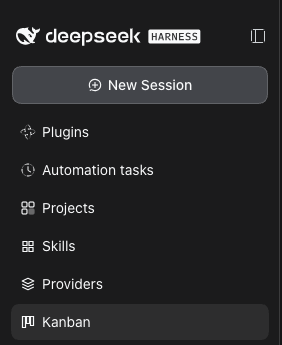
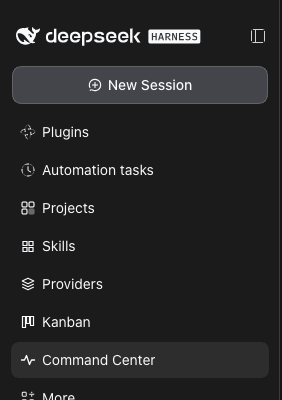
Command Center dashboard; keep sessions, providers, skills, kanban as separate panels

diff --git a/packages/toolbox/client.js b/packages/toolbox/client.js
@@ -41,6 +41,8 @@ window.__ModuleLoader__.load({
 .tbx-row:hover{background:var(--dsw-alias-interactive-bg-hover)}
 .tbx-rowOff{opacity:.55}
 .tbx-name{font-size:12px;white-space:nowrap;overflow:hidden;text-overflow:ellipsis;flex:0 0 200px}
+.tbx-copy{display:flex;flex-direction:column;min-width:0;flex:1;gap:1px}
+.tbx-copy .tbx-name{flex:0 0 auto;max-width:100%}
 .tbx-desc{flex:1;min-width:0;white-space:nowrap;overflow:hidden;text-overflow:ellipsis;color:var(--dsw-alias-label-tertiary);font-size:11px}
 .tbx-load{flex:none;font-variant-numeric:tabular-nums;color:var(--dsw-alias-label-tertiary);font-size:11px;min-width:44px;text-align:right}
 .tbx-switch{flex:none;width:30px;height:18px;border-radius:999px;border:1px solid var(--dsw-alias-border-l2);background:var(--dsw-alias-bg-layer-3);cursor:pointer;padding:0;position:relative}
@@ -67,6 +69,8 @@ window.__ModuleLoader__.load({
 .tbx-empty{padding:14px;color:var(--dsw-alias-label-tertiary);font-size:12px}
 .tbx-note{color:var(--dsw-alias-label-tertiary);font-size:11px;margin:4px 0 8px}
 .tbx-error{color:var(--dsw-alias-state-error-primary);font-size:12px;padding:6px 0}
+.tbx-dot{display:inline-block;width:7px;height:7px;border-radius:50%;background:var(--dsw-alias-label-caption);margin-right:6px;vertical-align:middle}
+.tbx-dotOn{background:var(--dsw-alias-state-success-primary,var(--dsw-alias-state-business-primary))}
 .tbx-badge{display:inline-block;border:1px solid var(--dsw-alias-border-l1);border-radius:999px;padding:0 6px;font-size:10px;color:var(--dsw-alias-label-tertiary);line-height:16px}
 `
     if (typeof document !== 'undefined' && document.querySelector('style[data-plugin-css=' + JSON.stringify(CSS_TAG) + ']') === null) {
@@ -328,6 +332,50 @@ window.__ModuleLoader__.load({
       )
     }
 
+    function CommandTab({ t }) {
+      const [data, setData] = useState(null)
+      const [error, setError] = useState(null)
+      useEffect(() => {
+        fetchJson('/api/toolbox/sessions').then(setData).catch((e) => setError(e.message))
+      }, [])
+      if (error) return h('div', { className: 'tbx-error' }, error)
+      if (data === null) return h('div', { className: 'tbx-empty' }, t('loading'))
+      if (data.rows.length === 0) return h('div', { className: 'tbx-empty' }, t('command.empty'))
+      const workspace = (cwd) => (cwd || '').split('/').filter(Boolean).pop() || '—'
+      return h(
+        'div',
+        { className: 'tbx-list' },
+        data.rows.map((row) => h(
+          'div',
+          { className: 'tbx-row', key: row.id },
+          h('span', { className: 'tbx-dot' + (row.active ? ' tbx-dotOn' : ''), title: row.active ? t('sessions.active') : t('sessions.idle') }),
+          h(
+            'span',
+            { className: 'tbx-copy' },
+            h('span', { className: 'tbx-name', title: row.id }, row.title),
+            h(
+              'span',
+              { className: 'tbx-desc' },
+              `${workspace(row.cwd)} · ${row.model || '—'} · ${row.messages} ${t('sessions.messagesShort')} · ${n(row.tokens)} ${t('sessions.tokensShort')}`,
+            ),
+          ),
+          h('span', { className: 'tbx-muted' }, ago(row.updatedAt)),
+        )),
+      )
+    }
+
+    function CommandPage({ t }) {
+      return h(
+        'div',
+        { className: 'tbx-page' },
+        h('div', { className: 'tbx-head' }, h('span', { className: 'tbx-title' }, t('command.title'))),
+        h('div', { className: 'tbx-body' },
+          h('div', { className: 'tbx-note' }, t('command.note')),
+          h(CommandTab, { t }),
+        ),
+      )
+    }
+
     function KanbanPage({ t }) {
       return h(
         'div',
@@ -399,6 +447,19 @@ window.__ModuleLoader__.load({
       }),
     )
 
+    const CommandIcon = () => h(
+      'svg',
+      { width: 16, height: 16, viewBox: '0 0 16 16', 'aria-hidden': 'true' },
+      h('path', {
+        d: 'M1.5 8h3l2-4.5 3 9 2-4.5h3',
+        fill: 'none',
+        stroke: 'currentColor',
+        strokeWidth: 1.3,
+        strokeLinecap: 'round',
+        strokeLinejoin: 'round',
+      }),
+    )
+
     const ProvidersIcon = () => h(
       'svg',
       { width: 16, height: 16, viewBox: '0 0 16 16', 'aria-hidden': 'true' },
@@ -419,6 +480,20 @@ window.__ModuleLoader__.load({
       'tab.skills': 'Skills',
       'tab.providers': 'Providers',
       'kanban.title': 'Kanban',
+      'command.title': 'Command Center',
+      'command.note': 'Every durable session with its model, message count, token total and last write. Read-only: open a session from the sidebar; live in-flight state stays there.',
+      'command.empty': 'No sessions found.',
+      'sessions.status': 'Status',
+      'sessions.title': 'Session',
+      'sessions.workspace': 'Workspace',
+      'sessions.model': 'Model',
+      'sessions.messages': 'Messages',
+      'sessions.tokens': 'Tokens',
+      'sessions.last': 'Last write',
+      'sessions.messagesShort': 'messages',
+      'sessions.tokensShort': 'tokens',
+      'sessions.active': 'active',
+      'sessions.idle': 'idle',
       'skills.search': 'Filter skills',
       'skills.totals': '{enabled} enabled · {all} total · {retired} retired',
       'skills.note': 'Loads come from the curator. Disabling moves a skill to ~/.dsh/skills-retired.',
@@ -448,6 +523,20 @@ window.__ModuleLoader__.load({
       'tab.skills': '技能',
       'tab.providers': '提供商',
       'kanban.title': '看板',
+      'command.title': '指挥中心',
+      'command.note': '每个持久会话的模型、消息数、token 总量与最近写入。只读：从左侧边栏打开会话。',
+      'command.empty': '没有会话。',
+      'sessions.status': '状态',
+      'sessions.title': '会话',
+      'sessions.workspace': '工作区',
+      'sessions.model': '模型',
+      'sessions.messages': '消息',
+      'sessions.tokens': 'Token',
+      'sessions.last': '最近写入',
+      'sessions.messagesShort': '条消息',
+      'sessions.tokensShort': 'token',
+      'sessions.active': '活跃',
+      'sessions.idle': '空闲',
       'skills.search': '筛选技能',
       'skills.totals': '{enabled} 启用 · {all} 总数 · {retired} 已停用',
       'skills.note': '加载次数来自 curator。停用会把技能移动到 ~/.dsh/skills-retired。',
@@ -476,6 +565,7 @@ window.__ModuleLoader__.load({
         { key: 'skills', order: 23, label: 'skills.title', icon: SkillsIcon },
         { key: 'providers', order: 24, label: 'providers.title', icon: ProvidersIcon },
         { key: 'kanban', order: 25, label: 'kanban.title', icon: KanbanIcon },
+        { key: 'command', order: 26, label: 'command.title', icon: CommandIcon },
       ]
       for (const row of rows) {
         ctx.slots.inject('sidebar.panellist', () =>
@@ -485,7 +575,7 @@ window.__ModuleLoader__.load({
           ),
         )
       }
-      const pages = { skills: SkillsPage, providers: ProvidersPage, kanban: KanbanPage }
+      const pages = { skills: SkillsPage, providers: ProvidersPage, kanban: KanbanPage, command: CommandPage }
       for (const key of Object.keys(pages)) {
         ctx.slots.inject('main', () =>
           ctx.slots.register({ name: 'main', key, locale: NS }, pages[key]),

diff --git a/packages/toolbox/index.js b/packages/toolbox/index.js
@@ -210,6 +210,76 @@ async function providersPayload() {
   return value
 }
 
+/** @type {null | { at: number, value: unknown }} */
+let sessionCache = null
+
+/**
+ * One row per durable session, read from its log: title, workspace, model,
+ * message and token totals, and the file's last write. A session is reported
+ * "active" when its log was written within the last two minutes — the files
+ * carry no liveness flag, and a page cannot ask the Host for another tab's
+ * in-flight state.
+ */
+async function sessionsPayload() {
+  if (sessionCache !== null && Date.now() - sessionCache.at < 30_000) return sessionCache.value
+  const rows = []
+  const roots = await fs.readdir(SESSIONS, { withFileTypes: true }).catch(() => [])
+  for (const root of roots) {
+    if (!root.isDirectory()) continue
+    const dirs = await fs.readdir(path.join(SESSIONS, root.name), { withFileTypes: true }).catch(() => [])
+    for (const dir of dirs) {
+      if (!dir.isDirectory()) continue
+      const file = path.join(SESSIONS, root.name, dir.name, 'session.v4.jsonl.zstd')
+      let stat
+      try {
+        stat = await fs.stat(file)
+      } catch {
+        continue
+      }
+      const text = await readSession(file)
+      if (text === null) continue
+      let cwd = ''
+      let title = null
+      let model = ''
+      let messages = 0
+      let tokens = 0
+      for (const line of text.split('\n')) {
+        if (line === '') continue
+        let event
+        try {
+          event = JSON.parse(line)
+        } catch {
+          continue
+        }
+        if (event.type === 'session') {
+          cwd = event.cwd || cwd
+        } else if (event.type === 'session/title') {
+          title = event.data?.title || title
+        } else if (event.type === 'assistant/message') {
+          messages += 1
+          const source = event.data?.message?.source
+          if (source?.provider) model = `${source.provider} / ${source.model}`
+          tokens += event.data?.usage?.totalTokens || 0
+        }
+      }
+      rows.push({
+        id: dir.name,
+        cwd,
+        title: title || path.basename(cwd) || dir.name,
+        model,
+        messages,
+        tokens,
+        updatedAt: stat.mtimeMs,
+        active: Date.now() - stat.mtimeMs < 120_000,
+      })
+    }
+  }
+  rows.sort((a, b) => b.updatedAt - a.updatedAt)
+  const value = { rows, at: Date.now() }
+  sessionCache = { at: Date.now(), value }
+  return value
+}
+
 function emptyBoard() {
   return {
     version: 1,
@@ -311,6 +381,23 @@ export function apply(ctx) {
         },
       }),
     'toolbox: providers route',
+  )
+
+  ctx.effect(
+    () =>
+      ctx.connection.fetch.register({
+        path: '/api/toolbox/sessions',
+        methods: ['GET'],
+        requestBody: 'buffered',
+        fetch: async () => {
+          try {
+            return json(await sessionsPayload())
+          } catch (error) {
+            return failure(error)
+          }
+        },
+      }),
+    'toolbox: sessions route',
   )
 
   ctx.effect(

diff --git a/README.md b/README.md
@@ -30,7 +30,7 @@ Needs `bash`, `python3`, and an existing DSH profile.
 | --- | --- |
 | **Model picker** — [`packages/model-picker`](packages/model-picker) | Replaces the composer's model seat: search with match highlighting, favorites, collapsible provider groups, per-model reasoning levels, and an **Edit models** dialog that decides which models appear at all. |
 | **Projects page** — [`packages/projects-page`](packages/projects-page) | A read-only Projects panel: registry roster, open `TODO.md` items, subfolders, newest sessions, session hover marks. |
-| **Skills · Providers · Kanban** — [`packages/toolbox`](packages/toolbox) | Three sidebar panels: a skills manager (curator load counts, enable/disable), provider health (tokens, errors, last used per model), and a kanban board. |
+| **Skills · Providers · Kanban · Command Center** — [`packages/toolbox`](packages/toolbox) | Four sidebar panels: skills manager (curator load counts, enable/disable), provider health (tokens, errors, last used per model), a kanban board, and a session dashboard. |
 
 ### CLIs — [`tools/dsh-kit`](tools/dsh-kit)
 
@@ -60,9 +60,9 @@ The picker shadows the stock `conversation.input.model` occupant at `priority: -
 
 ![Search across providers](docs/images/search.png)
 
-## Skills, Providers, Kanban
+## Skills, Providers, Kanban, Command Center
 
-Three separate sidebar panels from one package.
+Four separate sidebar panels from one package.
 
 ![The three sidebar entries](docs/images/sidebar-entries.png)
 
@@ -77,6 +77,10 @@ Three separate sidebar panels from one package.
 **Kanban** — three columns persisted at `~/.dsh/toolbox/board.json`, drag-and-drop, add and remove.
 
 ![Kanban board](docs/images/toolbox-kanban.png)
+
+**Command Center** — every durable session with its status, model, message count, token total and last write. Read-only for now: open a session from the sidebar, and live in-flight state stays there.
+
+![Command Center](docs/images/command-center.png)
 
 ## The Projects page
 

diff --git a/packages/toolbox/README.md b/packages/toolbox/README.md
@@ -1,10 +1,11 @@
 # @dsh-local/toolbox
 
-A Toolbox package for DeepSeek Harness that registers three separate sidebar panels: Skills, Providers, and Kanban.
+A Toolbox package for DeepSeek Harness that registers four separate sidebar panels: Skills, Providers, Kanban, and Command Center.
 
 - **Skills** — every skill in `~/.dsh/skills` plus the retired set in `~/.dsh/skills-retired`, with the curator's load count and last-seen time, a filter, and a switch that moves a skill between the two directories. Disabling is a directory move, because a leading dot does not hide a skill from DSH's catalogue.
 - **Providers** — per provider/model totals read from the newest 40 session logs (concatenated zstd JSONL): messages, input/output/cache tokens, error count, last used. Cached for a minute on the Host.
-- **Board** — a three-column kanban persisted at `~/.dsh/toolbox/board.json`, with drag-and-drop between columns, add and remove.
+- **Kanban** — a three-column board persisted at `~/.dsh/toolbox/board.json`, with drag-and-drop between columns, add and remove.
+- **Command Center** — every durable session with status, model, message count, token total and last write, read from the session logs. Read-only: opening a session stays with the sidebar.
 
 Host routes, all under `/api/toolbox/`:
 
@@ -14,5 +15,6 @@ Host routes, all under `/api/toolbox/`:
 | `/skills/toggle` | POST | move a skill between `skills/` and `skills-retired/` |
 | `/providers` | GET | aggregated provider/model activity |
 | `/board` | GET/POST | read or replace the board |
+| `/sessions` | GET | session dashboard rows |
 
 Install: see the kit [README](../../README.md).

diff --git a/TODO.md b/TODO.md
@@ -2,8 +2,8 @@
 
 ## Next
 
-- [ ] Command Center: live sessions and agents with status, model, burn, stop/steer/open
-- [ ] Session import from ChatGPT / Claude exports
+- [ ] Session import from ChatGPT / Claude exports (needs a validated session-file writer; verify with a relaunch)
+- [ ] Command Center actions: open, steer, stop (needs the live session projection API, not just log files)
 
 ## Later
 
@@ -15,4 +15,5 @@
 - [x] Model picker with favorites, collapsible providers, reasoning levels, Edit models
 - [x] Projects page
 - [x] Toolbox: skills manager, provider health, kanban board
+- [x] Command Center dashboard (read-only)
 - [x] One-command installer and CLI kit (memory, checkpoints, curator, registry, skill audit)
